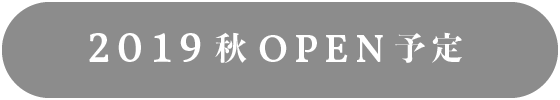
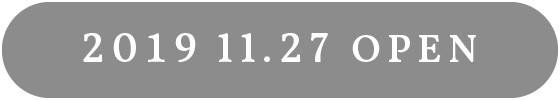
オープンは2019/11/27

Changed region(s): [[0.1518, 0.33, 0.85, 0.63]]

diff --git a/index.php b/index.php
@@ -84,7 +84,7 @@ $(function() {
       <p class="top-about-description">
         京都の元遊郭建築を<br class="for-sp">リノベーションした空間で<br>
         泊まって、食べて、働いて。</p>
-      <p class="top-about-description">現在リノベーション工事中、<br class="for-sp">2019年秋頃オープン予定です。</p>
+      <p class="top-about-description">2019年11月27日、<br class="for-sp">飲食部門とコワーキングを<br>先行して開業します。</p>
       <div class="top-about-img">
         <img src="<?php echo get_template_directory_uri(); ?>/img/top-about.png" alt="元遊郭建築">
       </div>
